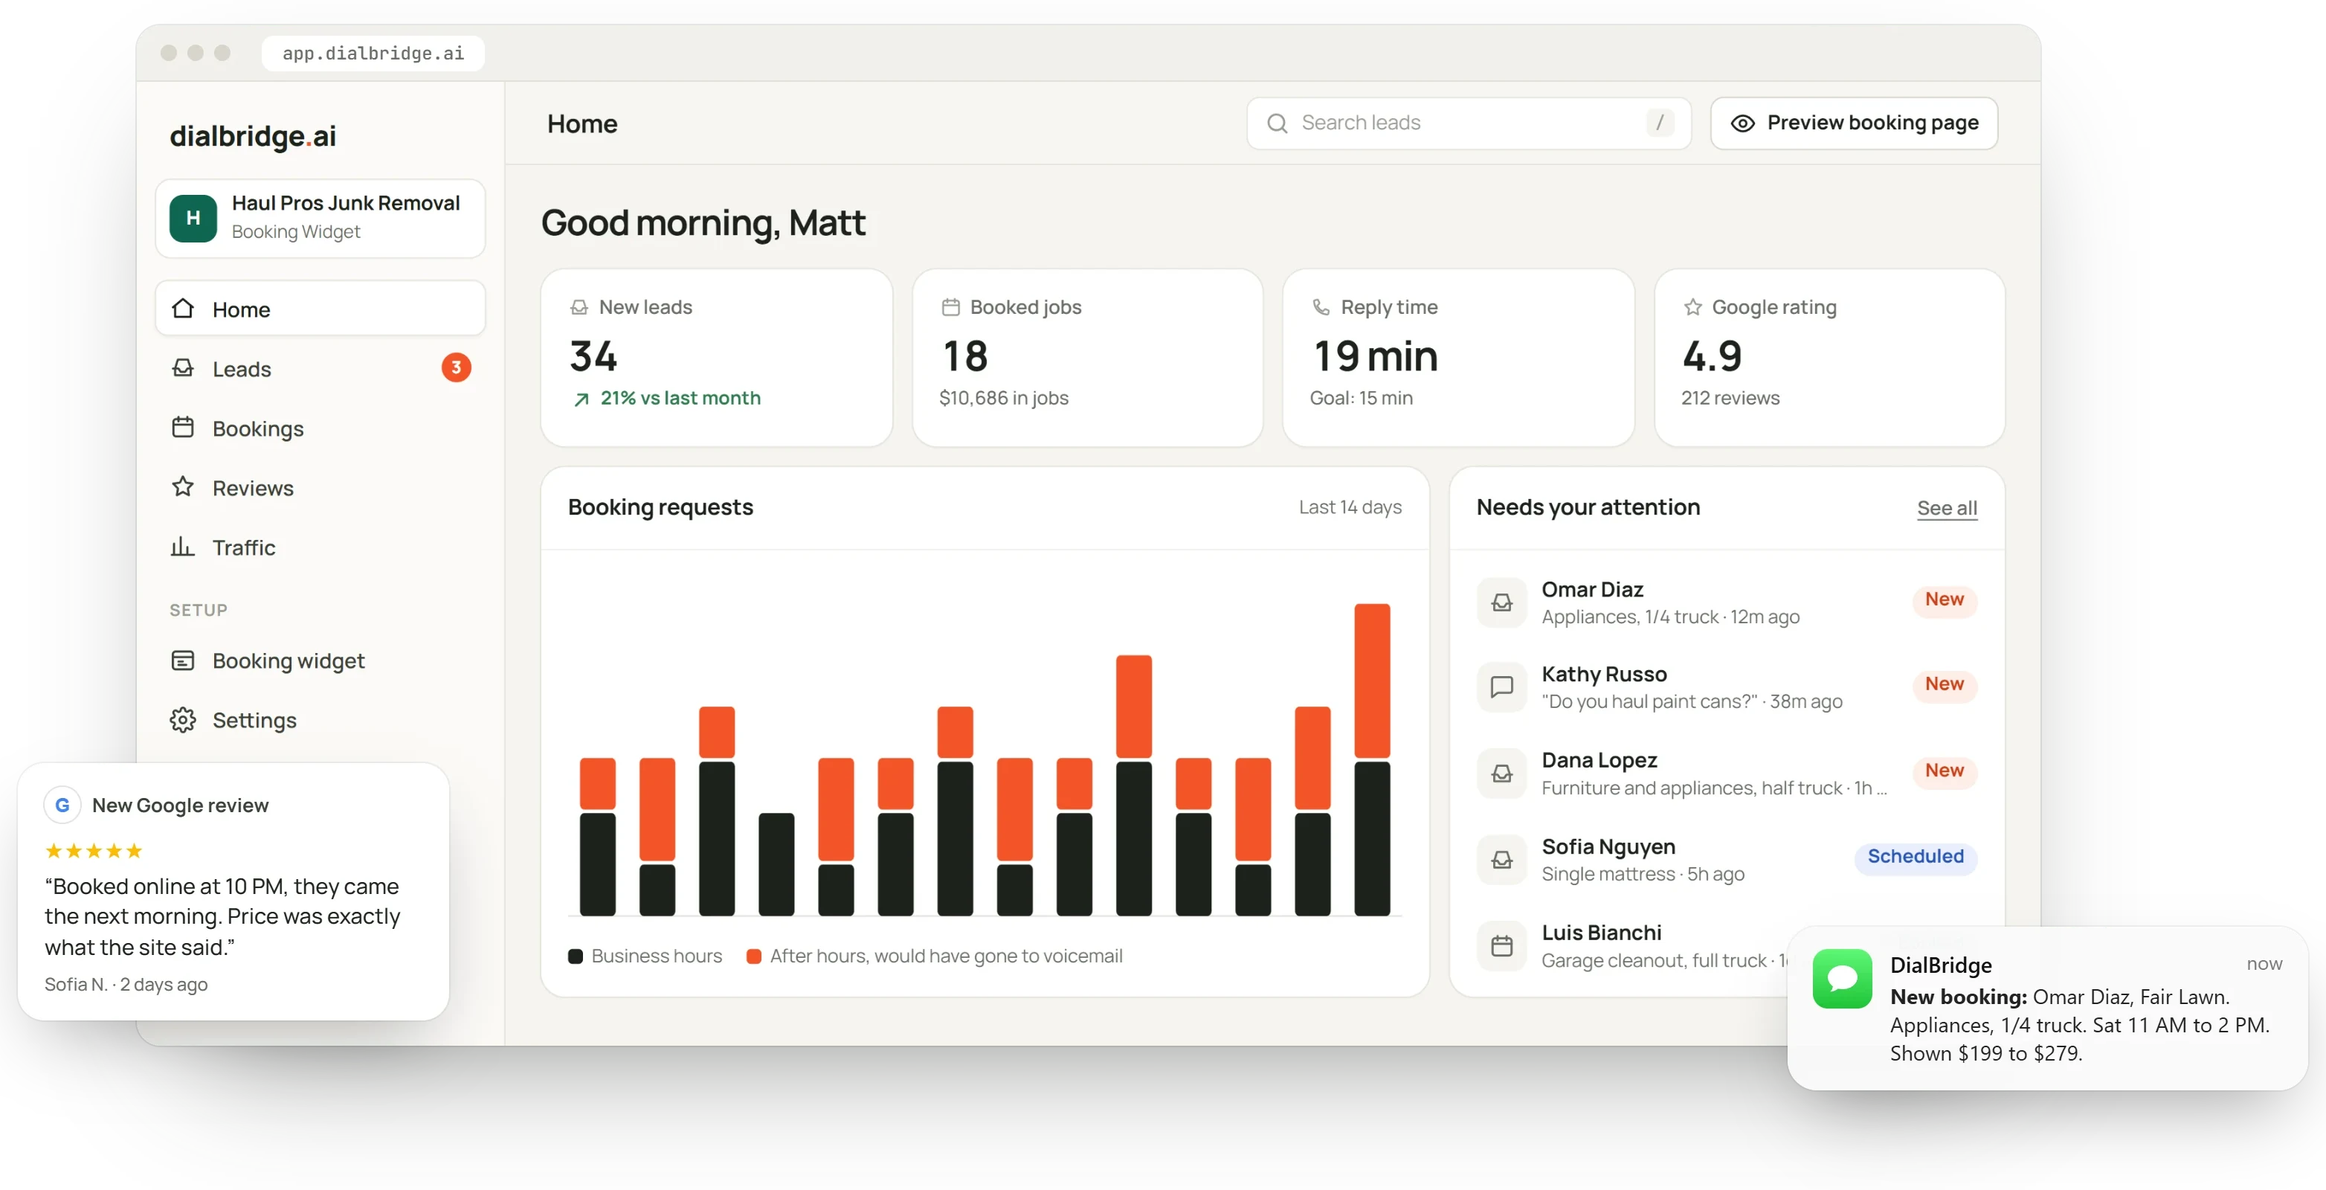
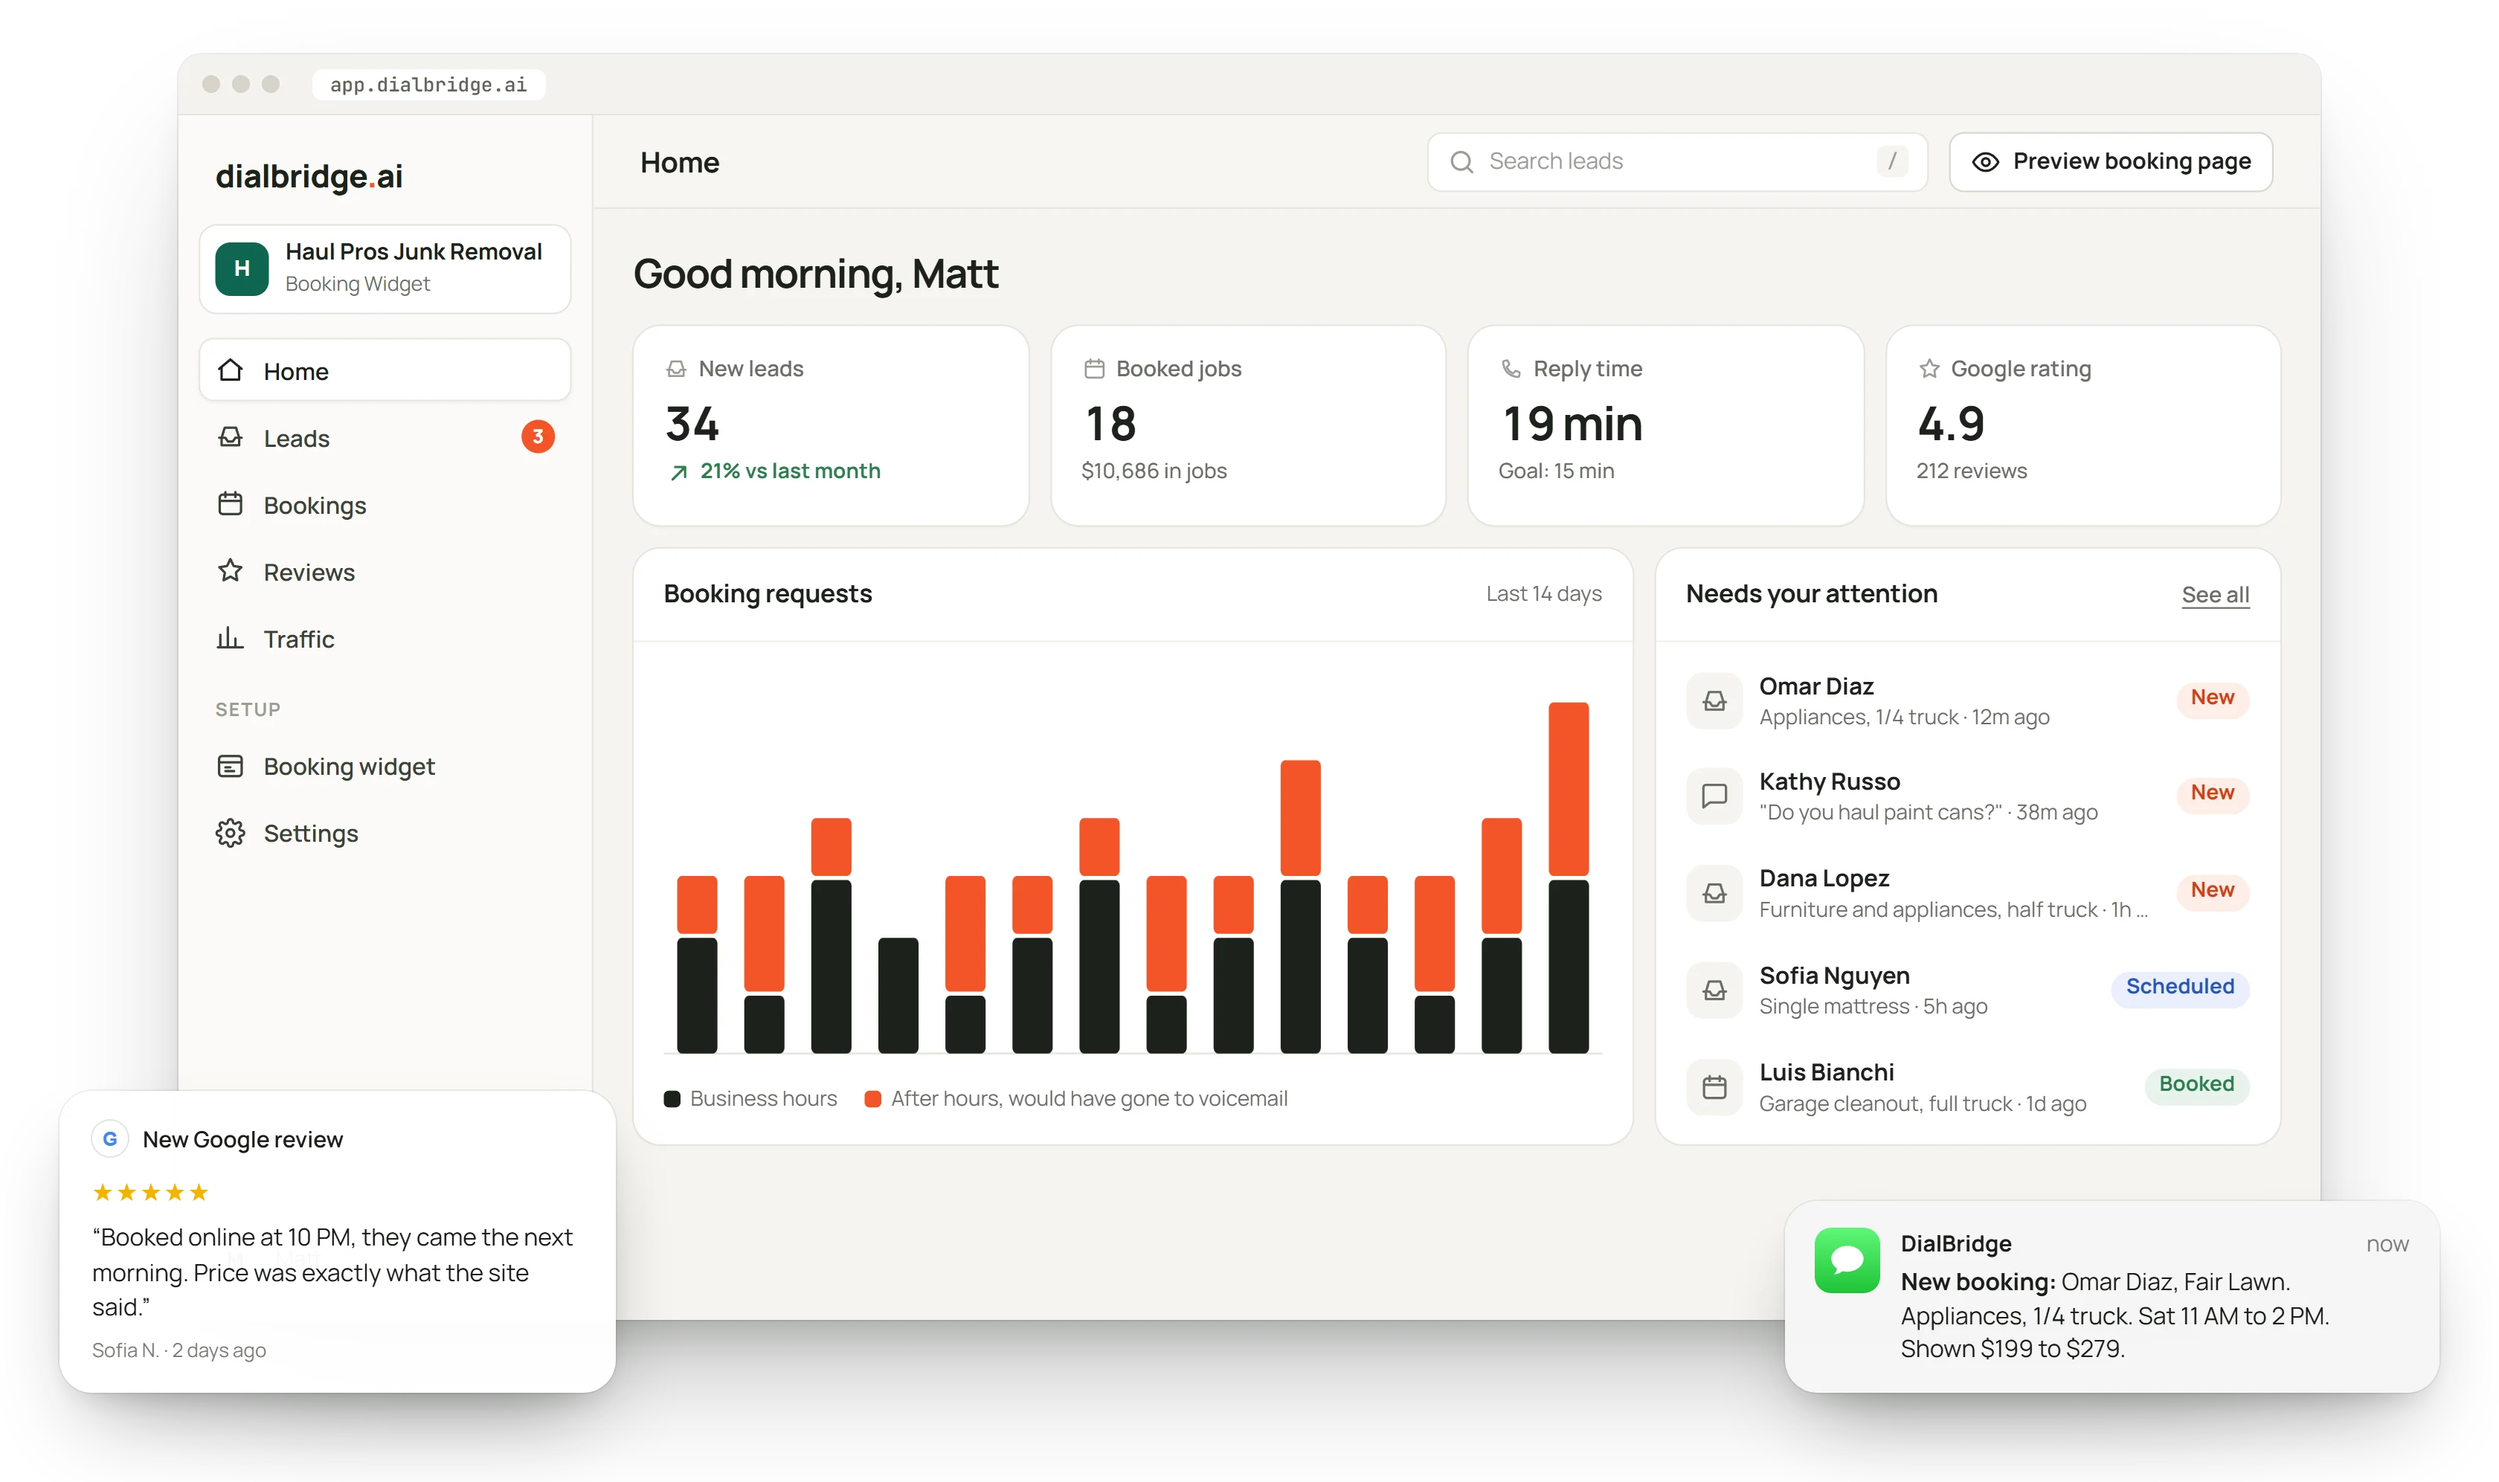
Product page: centred dashboard picture, two-line phone headline
Rebuild the dashboard shot from the base screen with the review and text cards
overhanging evenly; size the phone H1 to the screen so it never wraps to 3 lines.

diff --git a/product/index.html b/product/index.html
@@ -770,7 +770,7 @@ footer .wrap{display:flex;justify-content:space-between;flex-wrap:wrap;gap:12px}
 .tp{position:absolute;left:0;top:0;z-index:6;width:48px;height:48px;margin:-24px 0 0 -24px;border-radius:50%;background:rgba(40,44,52,.16);box-shadow:inset 0 0 0 2px rgba(255,255,255,.95),0 0 0 1px rgba(0,0,0,.06),0 6px 18px rgba(0,0,0,.2);opacity:0;pointer-events:none}
 .tp.go{animation:tpTap .75s cubic-bezier(.22,1,.36,1) forwards}
 @keyframes tpTap{0%{opacity:0;transform:scale(.55)}22%{opacity:1;transform:scale(1)}42%{transform:scale(.84)}62%{opacity:1;transform:scale(.98)}100%{opacity:0;transform:scale(1.18)}}
-@media (max-width:640px){.hero h1 .ln{white-space:normal}}
+@media (max-width:640px){.hero h1{font-size:clamp(21px,calc((100vw - 40px) * .08),36px)}}   /* the first line always fits, so the H1 stays two lines */
 
 /* ===== trades row slides right to left on phones ===== */
 .trades li[aria-hidden]{display:none}
@@ -1031,7 +1031,7 @@ footer .wrap{display:flex;justify-content:space-between;flex-wrap:wrap;gap:12px}
       <div><p class="flabel"><span class="fi"><svg viewBox="0 0 24 24"><rect x="3" y="4" width="18" height="16" rx="2.5"/><path d="M3 9h18M8 13h4M8 16h7"/></svg></span>Your dashboard</p><h2 style="margin-top:14px">Run it all from one dashboard.</h2></div>
       <p>Every booking, call-back and review in one place. See what came in after hours, reply in one tap, and know which link brings the jobs.</p>
     </div>
-    <div class="dsh rv" id="dsh"><div class="dsh-shot"><picture><source media="(max-width:640px)" srcset="img/dashboard-phone.webp" width="520" height="1125"><img src="img/dashboard.webp" alt="DialBridge dashboard: new leads, booked jobs, reply time, Google rating, booking requests chart and leads needing attention, with a new booking text and a new Google review" width="3128" height="1600" loading="lazy" decoding="async"></picture></div></div>
+    <div class="dsh rv" id="dsh"><div class="dsh-shot"><picture><source media="(max-width:640px)" srcset="img/dashboard-phone.webp" width="520" height="1125"><img src="img/dashboard.webp" alt="DialBridge dashboard: new leads, booked jobs, reply time, Google rating, booking requests chart and leads needing attention, with a new booking text and a new Google review" width="3360" height="1993" loading="lazy" decoding="async"></picture></div></div>
   </div>
 </section>
 
